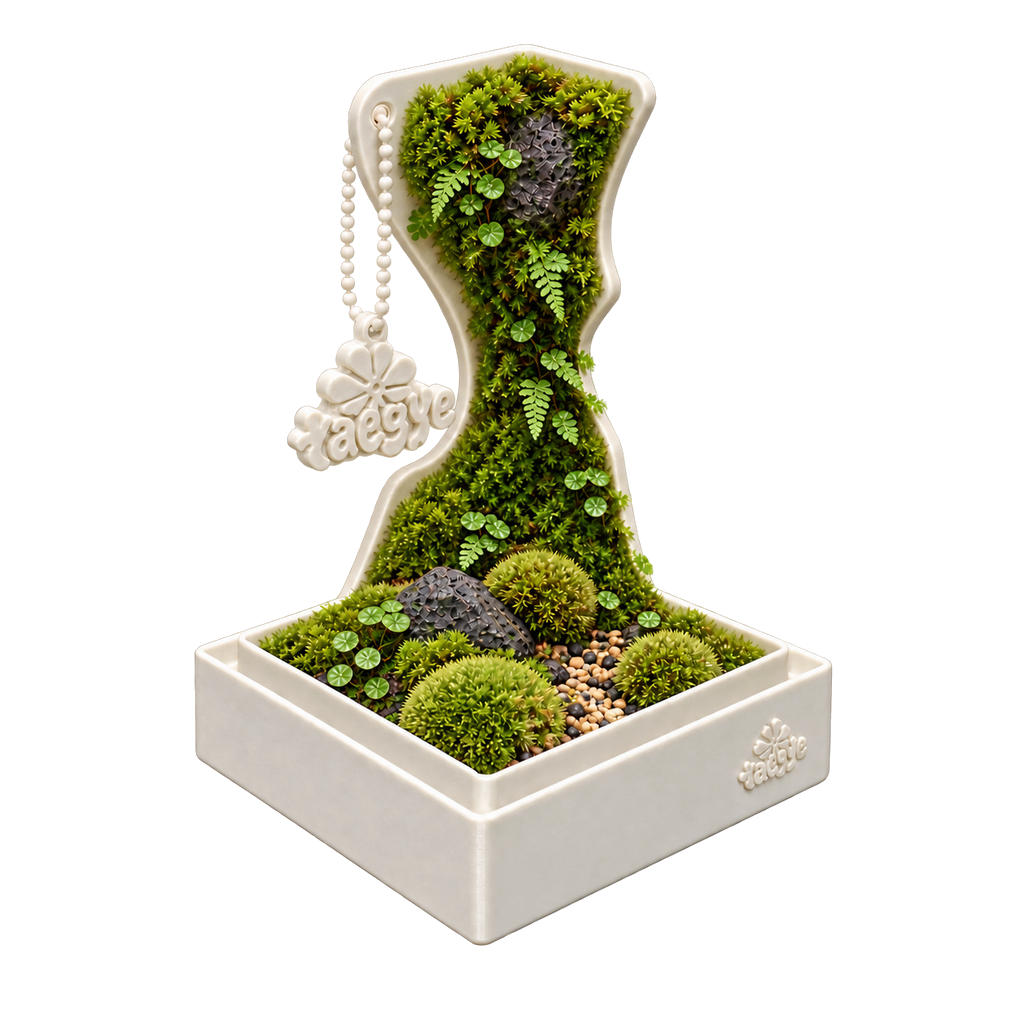
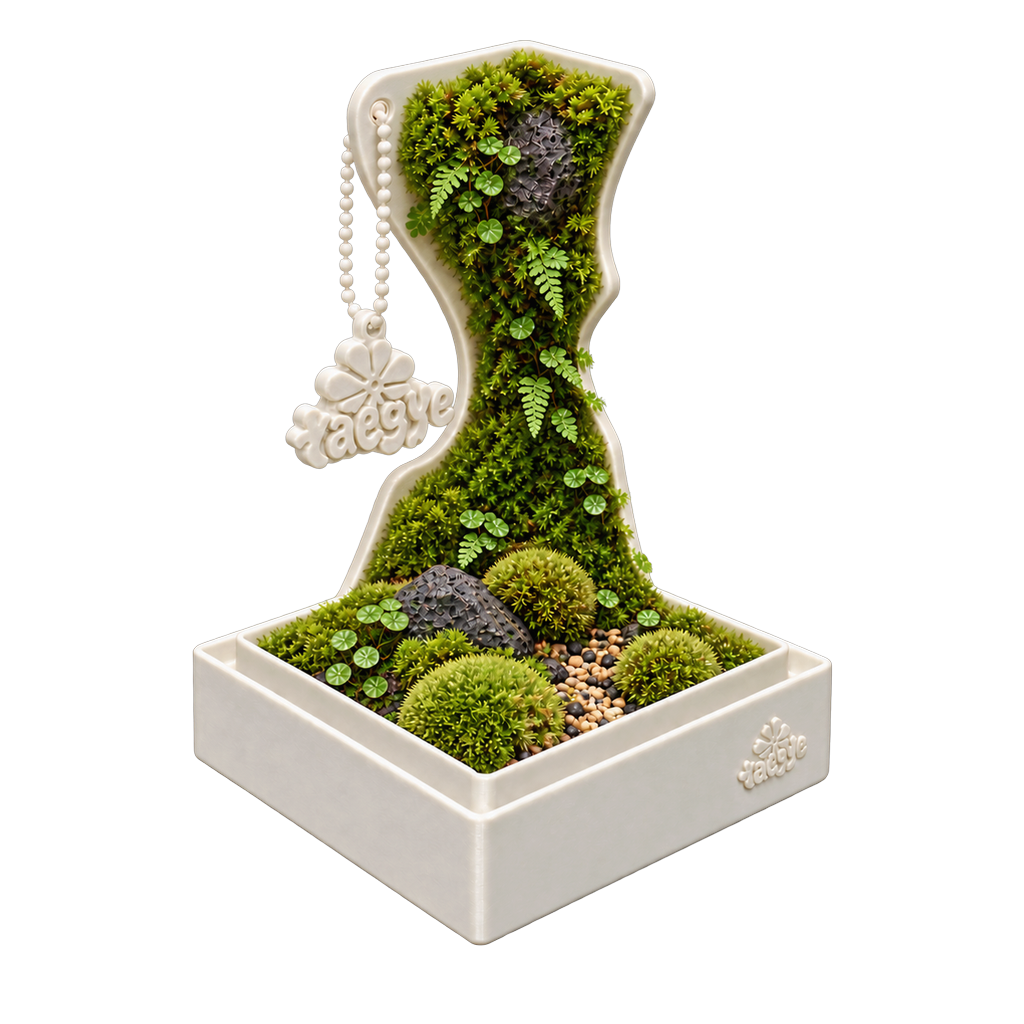
Align White moss hover to the empty stand and stop the PDP left jump.
The White hover render sat in a tighter alpha box than stand-white.webp, so object-contain made only that card change size. Recrop it onto the empty-stand frame.

On product pages, skip the 2.2s home splash, keep the gallery from expanding the flex min-width, pin scrollLeft until the user swipes, and reserve scrollbar gutter so nothing shifts after load.

Changed region(s): [[0.2188, 0.0312, 0.75, 0.75], [0.7188, 0.7188, 0.7812, 0.75], [0.1875, 0.625, 0.2188, 0.6562]]

diff --git a/src/components/pdp-gallery.tsx b/src/components/pdp-gallery.tsx
@@ -18,30 +18,41 @@ type PdpGalleryProps = {
 export function PdpGallery({ empty, moss }: PdpGalleryProps) {
   const trackRef = useRef<HTMLDivElement>(null);
   const pointer = useRef<{ x: number; y: number } | null>(null);
+  const userMoved = useRef(false);
   const [page, setPage] = useState(1);
 
-  const syncPage = useCallback(() => {
+  const snapIdle = useCallback(() => {
     const track = trackRef.current;
     if (!track) return;
     const width = track.clientWidth;
     if (width <= 0) return;
+    if (!userMoved.current && track.scrollLeft !== 0) {
+      track.scrollLeft = 0;
+    }
     setPage(track.scrollLeft >= width * 0.5 ? 2 : 1);
   }, []);
 
   useEffect(() => {
     const track = trackRef.current;
     if (!track) return;
-    syncPage();
-    track.addEventListener("scroll", syncPage, { passive: true });
-    window.addEventListener("resize", syncPage);
+    snapIdle();
+    track.addEventListener("scroll", snapIdle, { passive: true });
+    window.addEventListener("resize", snapIdle);
+    const ro = new ResizeObserver(snapIdle);
+    ro.observe(track);
+    const imgs = track.querySelectorAll("img");
+    imgs.forEach((img) => img.addEventListener("load", snapIdle));
     return () => {
-      track.removeEventListener("scroll", syncPage);
-      window.removeEventListener("resize", syncPage);
+      track.removeEventListener("scroll", snapIdle);
+      window.removeEventListener("resize", snapIdle);
+      ro.disconnect();
+      imgs.forEach((img) => img.removeEventListener("load", snapIdle));
     };
-  }, [syncPage]);
+  }, [snapIdle]);
 
   const onPointerDown = (event: PointerEvent<HTMLDivElement>) => {
     pointer.current = { x: event.clientX, y: event.clientY };
+    userMoved.current = true;
   };
 
   const onTrackClick = (event: MouseEvent<HTMLDivElement>) => {
@@ -53,6 +64,7 @@ export function PdpGallery({ empty, moss }: PdpGalleryProps) {
     if (!track) return;
     const rect = track.getBoundingClientRect();
     const next = event.clientX - rect.left >= rect.width * 0.5;
+    userMoved.current = true;
     track.scrollTo({ left: next ? rect.width : 0, behavior: "smooth" });
   };
 

diff --git a/src/app/layout.tsx b/src/app/layout.tsx
@@ -75,7 +75,7 @@ export default function RootLayout({ children }: LayoutProps<"/">) {
         />
         <script
           dangerouslySetInnerHTML={{
-            __html: `try{var q=location.search;var desktop=window.matchMedia("(min-width:768px)").matches;var hold=/intro=hold/.test(q);var skip=sessionStorage.getItem("taegye-intro")==="1"||/intro=skip|promo=hold/.test(q);if(desktop||(skip&&!hold))document.documentElement.dataset.intro="done";else document.documentElement.dataset.intro="pending";var promoHold=/promo=hold/.test(q);var promoSkip=/promo=skip/.test(q);var until=+localStorage.getItem("taegye-promo-hide-until")||0;var closed=sessionStorage.getItem("taegye-promo-closed")==="1";var hidePromo=!${HOME_PROMO.enabled}||location.pathname!=="/"||promoSkip||(!promoHold&&(until>Date.now()||closed));document.documentElement.dataset.promo=hidePromo?"off":"on"}catch(e){document.documentElement.dataset.intro="pending";document.documentElement.dataset.promo="on"}`,
+            __html: `try{var q=location.search;var desktop=window.matchMedia("(min-width:768px)").matches;var hold=/intro=hold/.test(q);var skip=sessionStorage.getItem("taegye-intro")==="1"||/intro=skip|promo=hold/.test(q);var home=location.pathname==="/";if(desktop||!home||(skip&&!hold))document.documentElement.dataset.intro="done";else document.documentElement.dataset.intro="pending";var promoHold=/promo=hold/.test(q);var promoSkip=/promo=skip/.test(q);var until=+localStorage.getItem("taegye-promo-hide-until")||0;var closed=sessionStorage.getItem("taegye-promo-closed")==="1";var hidePromo=!${HOME_PROMO.enabled}||location.pathname!=="/"||promoSkip||(!promoHold&&(until>Date.now()||closed));document.documentElement.dataset.promo=hidePromo?"off":"on"}catch(e){document.documentElement.dataset.intro="pending";document.documentElement.dataset.promo="on"}`,
           }}
         />
       </head>

diff --git a/src/app/globals.css b/src/app/globals.css
@@ -291,10 +291,23 @@ body,
   overscroll-behavior-y: none;
 }
 
+.site-shell {
+  overflow-x: hidden;
+}
+
 html,
 body {
-  overflow-x: clip;
+  overflow-x: hidden;
   overflow-y: visible;
+  scrollbar-gutter: stable;
+}
+
+.site-shell,
+.site-column,
+.site-main,
+.site-page {
+  min-width: 0;
+  max-width: 100%;
 }
 
 .site-column {
@@ -543,7 +556,9 @@ button {
   flex-direction: column;
   align-items: stretch;
   gap: 1.5rem;
+  min-width: 0;
   min-height: 0;
+  max-width: 100%;
   padding-top: 32px;
   padding-bottom: 2.5rem;
   overflow: visible;
@@ -559,6 +574,7 @@ button {
   position: relative;
   width: 100%;
   max-width: 100%;
+  min-width: 0;
   overflow: hidden;
 }
 
@@ -566,6 +582,7 @@ button {
   display: flex;
   width: 100%;
   max-width: 100%;
+  min-width: 0;
   overflow-x: auto;
   overflow-y: hidden;
   scroll-snap-type: x mandatory;
@@ -606,7 +623,9 @@ button {
   display: block;
   width: 100%;
   max-width: 100%;
+  min-width: 0;
   overflow: hidden;
+  contain: inline-size;
 }
 
 @media (max-width: 767.98px) {
@@ -750,8 +769,8 @@ button {
   inset: 0;
   z-index: 70;
   display: block;
-  width: 100vw;
-  height: 100vh;
+  width: 100%;
+  height: 100%;
   pointer-events: auto;
   background-color: transparent;
 }

diff --git a/src/components/intro-splash.tsx b/src/components/intro-splash.tsx
@@ -30,8 +30,6 @@ export function IntroSplashController() {
     const fade = reduced ? 0 : FADE_MS;
     const holdFor = shouldHold() ? 120000 : reduced ? 1600 : HOLD_MS;
 
-    document.body.style.overflow = "hidden";
-
     let hideTimer = 0;
     const outTimer = window.setTimeout(() => {
       if (shouldHold()) return;
@@ -43,7 +41,6 @@ export function IntroSplashController() {
         } catch {
           /* ignore quota / private mode */
         }
-        document.body.style.overflow = "";
         window.dispatchEvent(new Event("taegye:intro-done"));
       }, fade);
     }, holdFor);
@@ -51,7 +48,6 @@ export function IntroSplashController() {
     return () => {
       window.clearTimeout(outTimer);
       window.clearTimeout(hideTimer);
-      document.body.style.overflow = "";
     };
   }, []);
 
